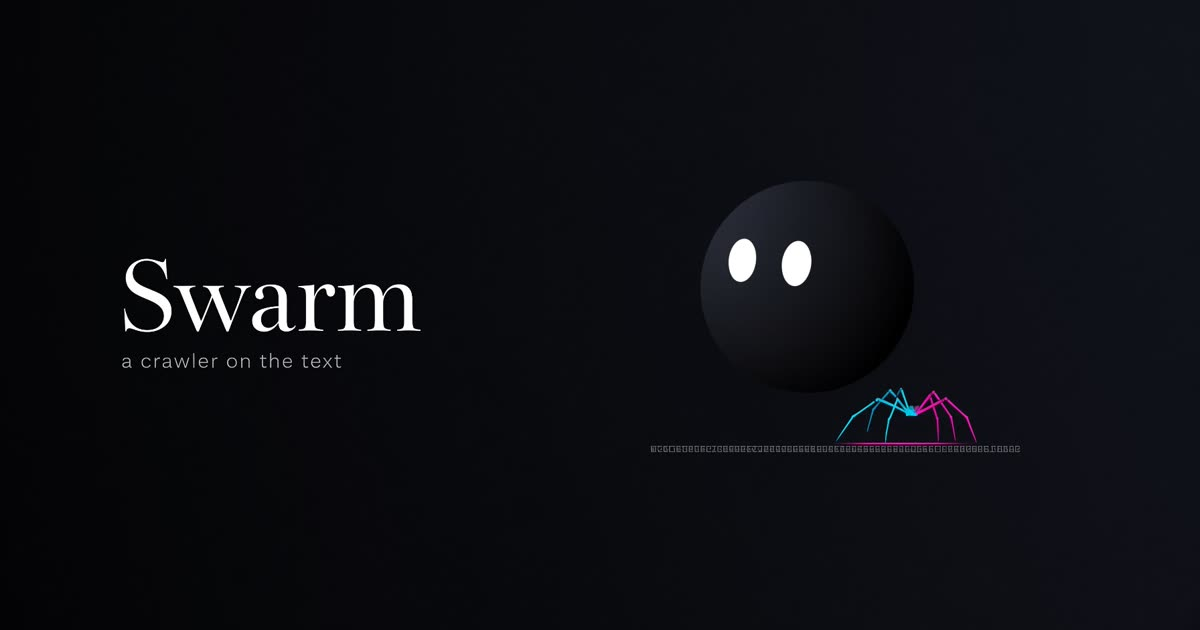
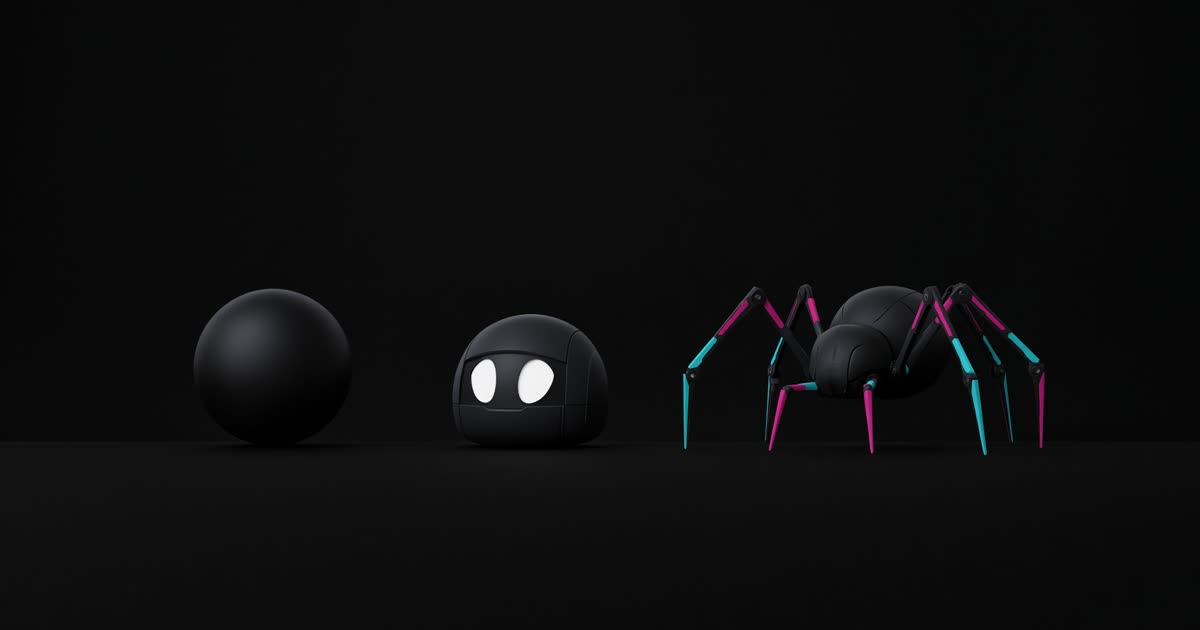
Draw the evidence strings across the last fifteen seconds.
Friends stay balls tied to the spiders, the spider body is larger, and the sounds are softer.

diff --git a/src/swarm/crawl.ts b/src/swarm/crawl.ts
@@ -620,12 +620,35 @@ export function startCrawl(opts: {
     }
     const word = chosenWord();
     const perPage = pages.map((page, index) => {
-      if (!word) return [];
-      return anchorsOf(page, opts.docs?.[index], word).filter((anchor) => anchor.score > 0);
+      const all = anchorsOf(page, opts.docs?.[index], word);
+      const hits = word ? all.filter((anchor) => anchor.score > 0) : [];
+      const source = hits.length ? hits : all;
+      if (source.length) return source;
+      return [0.3, 0.55, 0.78].map((rel) => ({
+        x: page.x + page.w * (0.35 + rel * 0.3),
+        y: page.y + page.h * rel,
+        rel,
+        score: 0,
+      }));
     });
-    web = makeWeb({ minX, minY, maxX, maxY }, perPage, true);
+    web = makeWeb({ minX, minY, maxX, maxY }, perPage, Boolean(word));
     threadCount = web.total;
     return web;
+  }
+
+  let weaveBegun = false;
+  let weaveTick = 2.4;
+  function beginWeave() {
+    if (weaveBegun) return;
+    weaveBegun = true;
+    buildWeb();
+    if (party === "off") {
+      setTravel(overviewCam());
+      tween = 0;
+      mode = "finale";
+      finaleT = 0;
+      opts.audio.play("thread");
+    }
   }
 
   function pageAt(x: number, y: number) {
@@ -2002,7 +2025,7 @@ export function startCrawl(opts: {
     const ry = Math.max(R * 0.5, R * (1 - (metal ? 0.14 : 0.4) * squash));
     const cx = ball.x;
     const cy = ball.perch ? ball.y : ball.y - ball.h - ry * 0.92;
-    if (party === "chaos" || party === "friends") {
+    if (party === "chaos") {
       drawGrok(ctx, cx, cy, Math.max(rx, ry), Math.sin(spinT * 0.85) * 0.7, opts.reduced ? 1 : grokOpen(spinT), alpha);
       return;
     }
@@ -2371,7 +2394,7 @@ export function startCrawl(opts: {
   function drawWeb(ctx: CanvasRenderingContext2D) {
     const wb = web;
     if (!wb) return;
-    const t = webT;
+    const t = Math.max(0, Math.min(15, showT - (showFor - 15)));
     const amp = webAmp();
     const sc = cam.s;
     const A = { x: 0, y: 0 };
@@ -2585,7 +2608,7 @@ export function startCrawl(opts: {
     }
     for (const ball of balls) drawBallShadow(ctx, ball);
     for (const sp of spiders) drawSpiderShadow(ctx, sp);
-    if (web && (finished || mode === "finale")) drawWeb(ctx);
+    if (web && showT >= showFor - 15) drawWeb(ctx);
     agents.forEach((agent, ai) => {
       const page = pages[agent.page];
       if (!page || party === "spiders") return;
@@ -2610,12 +2633,16 @@ export function startCrawl(opts: {
         ctx.fillStyle = "rgba(255,255,255,0.92)";
         ctx.fillRect(pose.head - 1 / cam.s, pose.bar.y, 2 / cam.s, pose.bar.h);
       }
-      const hideSpider = party === "chaos" || party === "friends";
-      const stand = pose?.body ?? agent.body;
+      const hideSpider = party === "chaos";
       if (!hideSpider) {
         const stretch = opts.reduced || agent.flying || page.barren ? 0 : stretchOf(agent.age, agent.salt).amp;
         const reach = 1 + 0.46 * stretch;
         const body = { x: agent.body.x, y: agent.body.y - 20 * stretch };
+        const hub = pose?.color ?? "#5ce1ff";
+        const grow = 1 + 0.55 * stretch;
+        const limit = Math.min(page.w, page.h) * 0.075;
+        const hx = Math.min(26 / cam.s, limit) * grow;
+        const hy = Math.min(30 / cam.s, limit * 1.12) * grow;
         for (let i = 0; i < 8; i++) {
           const foot = agent.feet[i];
           const placed = {
@@ -2625,36 +2652,43 @@ export function startCrawl(opts: {
           const wobble = opts.reduced ? 0 : Math.sin(agent.age * 7.5 + i * 1.15) * 0.07;
           const lift = !opts.reduced && !agent.flying && !page.barren && agent.stepU[i] >= 0 ? Math.sin(Math.PI * Math.min(1, agent.stepU[i])) : 0;
           const color = i < 2 && pose ? pose.color : LEGS[i];
+          const dx = placed.x - body.x;
+          const dy = placed.y - body.y;
+          const reachLen = Math.hypot(dx, dy) || 1;
+          const hip = { x: body.x + (dx / reachLen) * hx * 0.85, y: body.y + (dy / reachLen) * hy * 0.72 };
           ctx.globalAlpha = fade;
-          drawLeg(ctx, body, { x: placed.x, y: placed.y - (lift * 7) / cam.s }, cam.s, { color, lift, stretch, wob: wobble, width: 1, dark: false });
+          drawLeg(ctx, hip, { x: placed.x, y: placed.y - (lift * 7) / cam.s }, cam.s, { color, lift, stretch, wob: wobble, width: 1.6, dark: false });
           ctx.globalAlpha = 1;
         }
-        const hub = pose?.color ?? "#5ce1ff";
-        const grow = 1 + 0.9 * stretch;
-        const hx = (6.5 / cam.s) * grow;
-        const hy = (7.4 / cam.s) * grow;
         ctx.globalAlpha = fade;
         ctx.beginPath();
-        ctx.moveTo(body.x, body.y - hy);
-        ctx.lineTo(body.x + hx, body.y);
-        ctx.lineTo(body.x, body.y + hy);
-        ctx.lineTo(body.x - hx, body.y);
-        ctx.closePath();
-        ctx.fillStyle = "#07080c";
+        ctx.ellipse(body.x - hx * 0.35, body.y + hy * 0.05, hx * 1.15, hy * 0.95, -0.4, 0, TAU);
+        ctx.fillStyle = "#101218";
         ctx.fill();
-        ctx.lineWidth = 1.4 / cam.s;
+        ctx.lineWidth = 1.8 / cam.s;
         ctx.strokeStyle = hub;
         ctx.stroke();
         ctx.beginPath();
-        ctx.arc(body.x, body.y, (1.8 / cam.s) * (1 + 0.35 * stretch), 0, Math.PI * 2);
+        ctx.ellipse(body.x + hx * 0.28, body.y - hy * 0.08, hx * 0.72, hy * 0.62, 0.35, 0, TAU);
+        ctx.fillStyle = "#07080c";
+        ctx.fill();
+        ctx.stroke();
+        ctx.beginPath();
+        ctx.arc(body.x + hx * 0.2, body.y - hy * 0.12, (4.2 / cam.s) * (1 + 0.2 * stretch), 0, TAU);
         ctx.fillStyle = hub;
         ctx.fill();
         ctx.globalAlpha = 1;
       }
       const perch = party === "friends" ? balls[ai] : undefined;
       if (perch?.perch) {
-        perch.x = stand.x;
-        perch.y = stand.y;
+        perch.x = agent.body.x + 22 / cam.s;
+        perch.y = agent.body.y - 46 / cam.s;
+        ctx.beginPath();
+        ctx.moveTo(agent.body.x, agent.body.y);
+        ctx.quadraticCurveTo(agent.body.x + 12 / cam.s, agent.body.y - 20 / cam.s, perch.x, perch.y);
+        ctx.strokeStyle = "rgba(255,244,220,0.8)";
+        ctx.lineWidth = 1.3 / cam.s;
+        ctx.stroke();
         drawBall(ctx, perch, fade);
       }
     });
@@ -2732,6 +2766,16 @@ export function startCrawl(opts: {
       for (let i = glints.length - 1; i >= 0; i--) {
         glints[i].life -= dt;
         if (glints[i].life <= 0) glints.splice(i, 1);
+      }
+      if (showT >= showFor - 15) {
+        beginWeave();
+        if (party === "off") {
+          weaveTick -= dt;
+          if (weaveTick <= 0) {
+            opts.audio.play("thread");
+            weaveTick = 2.5;
+          }
+        }
       }
       if (showT >= showFor) settleFinale();
     }

diff --git a/src/swarm/web.ts b/src/swarm/web.ts
@@ -42,7 +42,6 @@ export function quadAt(a: Pt, c: Pt, b: Pt, u: number, out: Pt): Pt {
   return out;
 }
 
-/** Where a point at `u` along strand `index` sits right now (with sway). */
 export function strandPoint(web: Web, index: number, u: number, t: number, amp: number, out: Pt): Pt {
   const s = web.strands[index];
   const a = sway(web.nodes[s.a], t, amp, { x: 0, y: 0 });
@@ -52,8 +51,7 @@ export function strandPoint(web: Web, index: number, u: number, t: number, amp: 
 }
 
 /**
- * Strings between pages that share one word or topic.
- * Caller passes only the matching anchors. Nothing is drawn until the crawl ends.
+ * Investigator strings between pages. Delays span the last 15 seconds of the show.
  */
 export function makeWeb(
   bounds: { minX: number; minY: number; maxX: number; maxY: number },
@@ -78,8 +76,8 @@ export function makeWeb(
     const pb = nodes[b];
     const len = Math.hypot(pb.x - pa.x, pb.y - pa.y);
     if (len < 40) return;
-    const droop = Math.min(h * 0.05, len * 0.06);
-    const c = { x: (pa.x + pb.x) / 2, y: (pa.y + pb.y) / 2 + droop };
+    const droop = Math.min(h * 0.045, len * (0.04 + (ink % 3) * 0.015));
+    const c = { x: (pa.x + pb.x) / 2 + (ink % 2 === 0 ? -1 : 1) * len * 0.03, y: (pa.y + pb.y) / 2 + droop };
     strands.push({
       kind: "link",
       a,
@@ -87,10 +85,10 @@ export function makeWeb(
       c,
       len,
       delay,
-      dur: 0.45,
+      dur: 1.05,
       hot,
       ink: ink % 3,
-      samples: Math.max(3, Math.min(7, Math.round(len / 180))),
+      samples: Math.max(4, Math.min(8, Math.round(len / 180))),
     });
     const id = strands.length - 1;
     adj[a].push(id);
@@ -98,26 +96,40 @@ export function makeWeb(
   };
 
   const pins: number[][] = perPage.map((list) => {
-    const ranked = [...list].sort((p, q) => q.score - p.score || p.y - q.y).slice(0, 2);
-    return ranked.map((item) => addNode({ x: item.x, y: item.y }));
+    if (!list.length) return [];
+    const sorted = [...list].sort((p, q) => p.y - q.y || q.score - p.score);
+    const picks = [sorted[0], sorted[Math.floor((sorted.length - 1) / 2)], sorted[sorted.length - 1]];
+    const seen = new Set<number>();
+    const nodesHere: number[] = [];
+    for (const item of picks) {
+      const key = Math.round(item.y);
+      if (seen.has(key)) continue;
+      seen.add(key);
+      nodesHere.push(addNode({ x: item.x, y: item.y }));
+    }
+    return nodesHere;
   });
 
-  const alive = pins.map((pin, index) => ({ index, pin })).filter((item) => item.pin.length);
-  let n = 0;
+  const jobs: { a: number; b: number; hot: boolean; ink: number }[] = [];
+  const alive = pins.filter((pin) => pin.length);
   for (let i = 0; i < alive.length - 1; i++) {
-    addYarn(alive[i].pin[0], alive[i + 1].pin[0], 0.15, true, i % 3);
-    n += 1;
-    const extraA = alive[i].pin[1];
-    const extraB = alive[i + 1].pin[1];
-    if (extraA != null && extraB != null) {
-      addYarn(extraA, extraB, 0.3, false, (i + 1) % 3);
-      n += 1;
+    jobs.push({ a: alive[i][0], b: alive[i + 1][0], hot: true, ink: 0 });
+    if (alive[i][1] != null && alive[i + 1][2] != null) {
+      jobs.push({ a: alive[i][1], b: alive[i + 1][2], hot: false, ink: 1 });
+    }
+    if (i + 2 < alive.length && alive[i][2] != null) {
+      jobs.push({ a: alive[i][2], b: alive[i + 2][0], hot: false, ink: 2 });
     }
   }
   if (alive.length >= 3) {
-    addYarn(alive[0].pin[0], alive[alive.length - 1].pin[0], 0.45, true, 2);
-    n += 1;
+    jobs.push({ a: alive[0][0], b: alive[alive.length - 1][Math.min(1, alive[alive.length - 1].length - 1)], hot: true, ink: 2 });
   }
 
-  return { nodes, strands, adj, dew: [], center, radius: Math.hypot(w, h) / 2, links: n, total: strands.length };
+  const span = 12;
+  jobs.forEach((job, index) => {
+    const delay = jobs.length < 2 ? 0.2 : (index / (jobs.length - 1)) * span;
+    addYarn(job.a, job.b, delay, job.hot, job.ink);
+  });
+
+  return { nodes, strands, adj, dew: [], center, radius: Math.hypot(w, h) / 2, links: strands.length, total: strands.length };
 }

diff --git a/src/swarm/audio.ts b/src/swarm/audio.ts
@@ -129,64 +129,59 @@ export function createAudio(): SwarmAudio {
     if (ctx.state === "suspended") void ctx.resume();
     const now = ctx.currentTime;
     if (kind === "step") {
-      if (now - lastStep < 0.048) return;
+      if (now - lastStep < 0.055) return;
       lastStep = now;
-      tap(0.42);
-      tap(0.2, 0.018 + Math.random() * 0.01);
+      tone(180 + Math.random() * 40, 0.045, "sine", 0.07, 0, 90);
+      tone(920 + Math.random() * 180, 0.03, "triangle", 0.035, 0.008, 420);
       return;
     }
     if (kind === "skitter") {
-      tap(0.16);
-      tap(0.12, 0.03);
-      tap(0.1, 0.055 + Math.random() * 0.02);
+      tone(640, 0.04, "sine", 0.05, 0, 880);
+      tone(820, 0.035, "sine", 0.04, 0.05, 540);
+      tone(500, 0.04, "triangle", 0.03, 0.09, 760);
       return;
     }
     if (kind === "stretch") {
-      grit(0.26, 380, 1680, 0.32, 0.7);
-      grit(0.2, 1500, 260, 0.26, 0.85, 0.12);
-      tap(0.24, 0.02);
-      tap(0.16, 0.14);
-      tone(140, 0.18, "sine", 0.08, 0.04, 70);
+      tone(220, 0.22, "sine", 0.06, 0, 140);
+      tone(440, 0.16, "triangle", 0.03, 0.04, 260);
+      grit(0.18, 700, 1400, 0.08, 0.7, 0.02);
       return;
     }
     if (kind === "focus") {
-      tap(0.36);
-      tap(0.22, 0.04);
-      grit(0.07, 1400, 3200, 0.14, 2.2, 0.02);
+      tone(660, 0.12, "sine", 0.07, 0, 880);
+      tone(990, 0.1, "triangle", 0.03, 0.03, 1320);
       return;
     }
     if (kind === "thread") {
-      grit(0.28, 500, 2400, 0.22, 0.6);
-      grit(0.18, 1800, 600, 0.12, 0.8, 0.08);
+      tone(392, 0.28, "sine", 0.07, 0, 294);
+      tone(588, 0.22, "triangle", 0.035, 0.02, 392);
+      tone(784, 0.16, "sine", 0.02, 0.04, 588);
+      grit(0.12, 1800, 900, 0.04, 1.2, 0.01);
       return;
     }
     if (kind === "page") {
-      grit(0.32, 220, 1900, 0.3, 0.55);
-      tap(0.28, 0.02);
-      tap(0.2, 0.07);
-      tap(0.16, 0.12);
-      tone(120, 0.16, "sine", 0.07, 0, 60);
+      grit(0.22, 240, 900, 0.1, 0.5);
+      tone(196, 0.2, "sine", 0.06, 0.02, 330);
+      tone(392, 0.14, "triangle", 0.025, 0.06, 294);
       return;
     }
     if (kind === "gasp") {
-      grit(0.18, 320, 1600, 0.26, 0.65);
-      tone(380, 0.12, "sine", 0.18, 0.04, 720);
-      tone(610, 0.08, "triangle", 0.07, 0.07, 480);
-      tap(0.14, 0.15);
+      grit(0.16, 400, 1200, 0.08, 0.6);
+      tone(520, 0.14, "sine", 0.06, 0.02, 780);
       return;
     }
     if (kind === "bounce") {
-      if (now - lastBounce < 0.042) return;
+      if (now - lastBounce < 0.05) return;
       lastBounce = now;
-      const pitch = 680 + Math.random() * 460;
-      tone(pitch, 0.055, "sine", 0.055, 0, pitch * 0.38);
-      tone(pitch * 1.7, 0.028, "triangle", 0.022, 0, pitch * 0.62);
-      grit(0.018, 2800, 900, 0.04, 3.4);
+      const pitch = 220 + Math.random() * 80;
+      tone(pitch, 0.09, "sine", 0.08, 0, pitch * 0.55);
+      tone(pitch * 2, 0.05, "triangle", 0.03, 0.01, pitch);
       return;
     }
-    for (let i = 0; i < 5; i++) tap(0.26 - i * 0.03, i * 0.035);
-    grit(0.24, 700, 2200, 0.2, 0.8, 0.02);
-    tone(90 + Math.random() * 20, 0.28, "sine", 0.09, 0, 240);
+    tone(262, 0.16, "sine", 0.06);
+    tone(330, 0.18, "sine", 0.045, 0.04);
+    tone(392, 0.2, "triangle", 0.03, 0.08);
+    grit(0.14, 600, 1400, 0.05, 0.8, 0.02);
   }
 
   return {

diff --git a/src/swarm/copy.ts b/src/swarm/copy.ts
@@ -5,7 +5,7 @@ export const ui = {
     brand: "سرب",
     kicker: "زاحف على النص",
     lead: "صورة أساسية، ثم من 3 إلى 10 تفرعات. أفلت عدة صور معاً. الزاحف يتمطى على السطر، وحين تتراجع الشاشة يتحرك السرب كله معاً.",
-    leadPages: "رابط نقدر فتحه، أو ملفات. العنكبوت يقرأ أولاً. في النهاية فقط، خيط يربط الكلمة نفسها أو موضوعك بين الصفحات.",
+    leadPages: "رابط نقدر فتحه، أو ملفات. العنكبوت يقرأ أولاً. في آخر خمس عشرة ثانية تُشد الخيوط بين الصفحات حتى تكتمل، كاللوحة التي يربطها المحقق.",
     pictures: "صور",
     pagesKind: "صفحات",
     github: "رابط من غيت هب",
@@ -70,7 +70,7 @@ export const ui = {
     brand: "Swarm",
     kicker: "A crawler on the text",
     lead: "One main picture, then 3 to 10 branches. Drop several at once. The crawler stretches where it stands. When the view pulls back, the whole swarm keeps moving.",
-    leadPages: "A link we can open, or files. The spider reads first. Only at the end, a thread ties the same word, or your subject, across the pages.",
+    leadPages: "A link we can open, or files. The spider reads first. In the last fifteen seconds, threads are drawn between the pages until the board is complete.",
     pictures: "Pictures",
     pagesKind: "Pages",
     github: "GitHub link",
